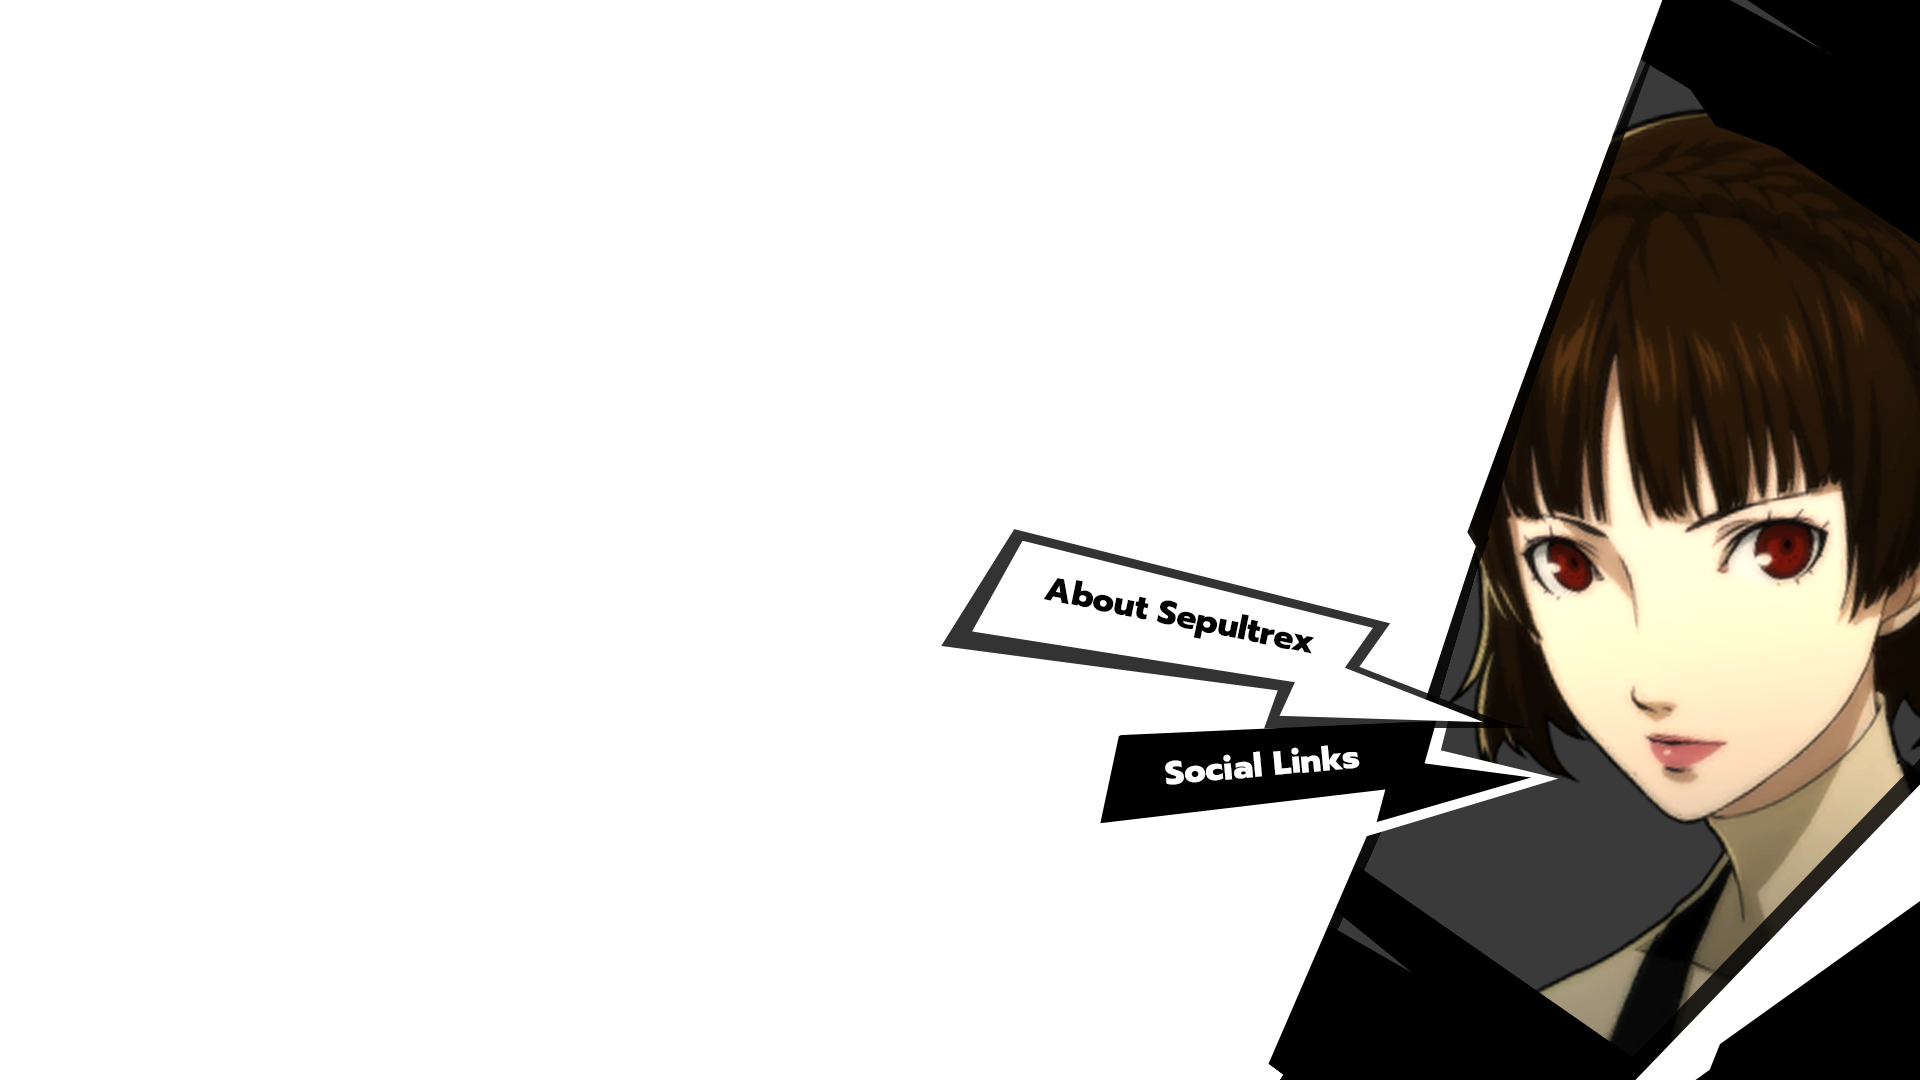
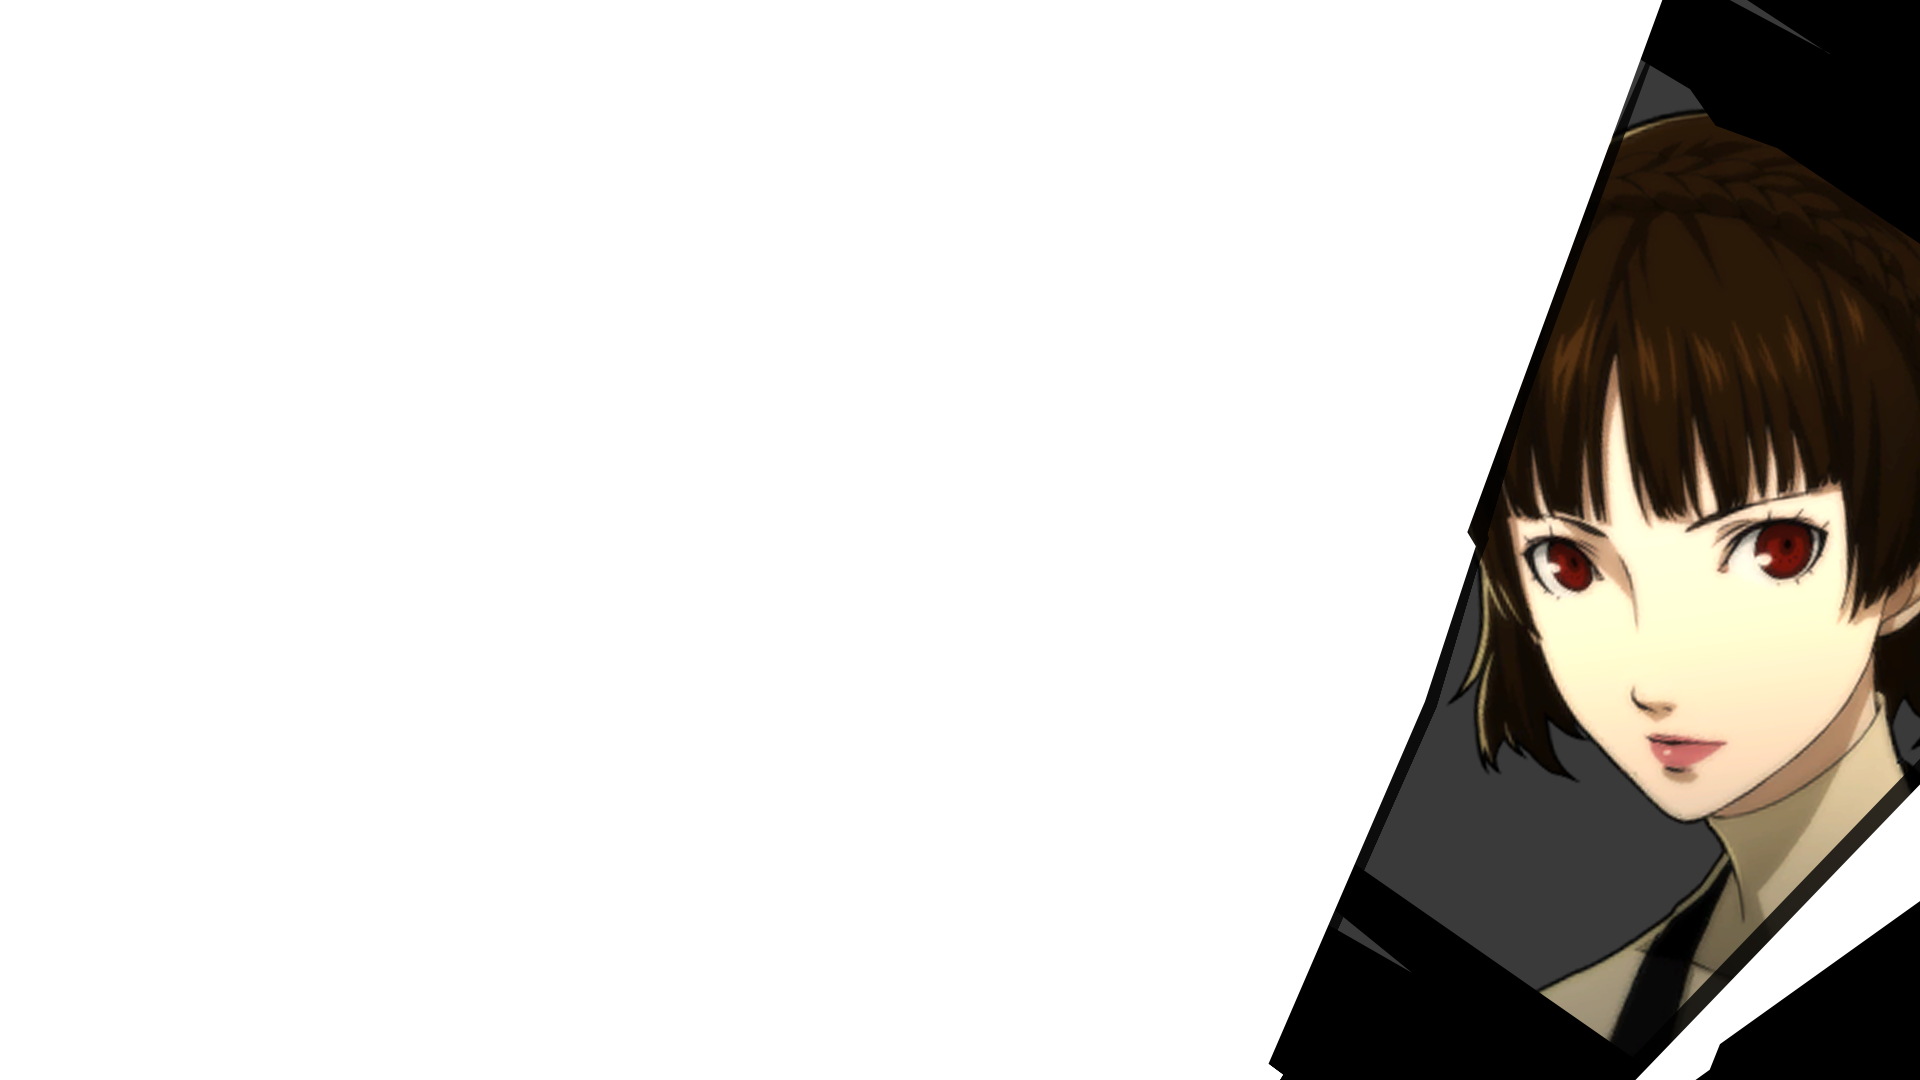
added dialog selections and configured javascript to control them

Changed region(s): [[0.4688, 0.4889, 0.8125, 0.7639]]

diff --git a/v4/DisturbingThePeace.css b/v4/DisturbingThePeace.css
@@ -18,13 +18,7 @@ body {
     background-attachment: fixed;
   }
   
-  .container {
-    position: relative;
-    width: 100%;
-    height: 100%;
-    padding: 0;
-    overflow: hidden;
-}
+
 
 #mainImage {
     position: absolute;
@@ -45,7 +39,6 @@ body {
 
 #newImage {
     display: none;
-
 }
 
 #newImage.slide-in {
@@ -68,7 +61,7 @@ body {
     z-index: 10;
 }
 
-#overlay {
+#karaaa {
     display: none;
     position: fixed;
     top: 0;
@@ -79,3 +72,51 @@ body {
     z-index: 20;
 }
 
+.imagecontainer{
+    display: none;
+}
+
+.imagecontainer.activemenu {
+    display: flex !important;
+    position: relative;
+    width: 100%;
+    height: 100%;
+    overflow: hidden;
+  }
+  .layer {
+    position: absolute;
+    bottom: 18vh;
+    right: 20vw;
+    width: 40vw;
+    height: auto;
+    object-fit: contain;
+    opacity: 0;
+    transition: opacity 0.2s ease;
+    pointer-events: none;
+    z-index: 23;
+  }
+  
+  @media (max-width: 1000px) {
+    .layer {
+      bottom: 13vh;
+      width: 40vw;
+    }
+  }
+  
+  @media (max-width: 768px) {
+    .layer {
+      bottom: 8vh;
+      width: 50vw;
+    }
+  }
+  
+  @media (max-width: 500px) {
+    .layer {
+      bottom: 3vh;
+      width: 60vw;
+    }
+  }
+  
+  .active {
+    opacity: 1;
+  }

diff --git a/v4/persona.js b/v4/persona.js
@@ -7,7 +7,7 @@ function slideImages() {
 
 function kararka() {
     var overlay = document.createElement('div');
-    overlay.id = 'overlay';
+    overlay.id = 'karaaa';
 
     document.body.appendChild(overlay);
 
@@ -16,4 +16,33 @@ function kararka() {
     overlay.onclick = function() {
         overlay.style.display = 'none';
     };
+}
+
+const layers = [
+  document.getElementById('layer1'),
+  document.getElementById('layer2'),
+  document.getElementById('layer3')
+];
+
+let currentIndex = 1; // ortadaki
+layers[currentIndex].classList.add('active');
+
+document.addEventListener('keydown', (e) => {
+  if (e.key === 'w' || e.key === 'W') {
+    if (currentIndex > 0) {
+      layers[currentIndex].classList.remove('active');
+      currentIndex--;
+      layers[currentIndex].classList.add('active');
+    }
+  } else if (e.key === 's' || e.key === 'S') {
+    if (currentIndex < layers.length - 1) {
+      layers[currentIndex].classList.remove('active');
+      currentIndex++;
+      layers[currentIndex].classList.add('active');
+    }
+  }
+});
+
+function secimmenu() {
+  document.getElementById("imagecontainer").classList.add("activemenu");
 }

diff --git a/v4/index.html b/v4/index.html
@@ -14,13 +14,14 @@
     </div>
 
     <div class="container">
-      <img src="img/ann-one.png" id="mainImage" onclick="slideImages(); kararka();">
+      <img src="img/ann-one.png" id="mainImage" onclick="slideImages(); kararka(); secimmenu()">
       <img src="img/ann-sec.png" id="newImage">
     </div>
 
-    <div id="popup" style="display: none; position: fixed; top: 20%; left: 30%; background: white; padding: 20px; border: 2px solid black;">
-      <p>Bu bir popup içeriği.</p>
-      <button id="closeBtn">Kapat</button>
+    <div id="imagecontainer" class="imagecontainer">
+      <img src="img/Layer 3.png" alt="Üst" class="layer" id="layer1">
+      <img src="img/Layer 2.png" alt="Orta" class="layer" id="layer2">
+      <img src="img/Layer 1.png" alt="Alt" class="layer" id="layer3">
     </div>
 
     <script src="persona.js"></script>
